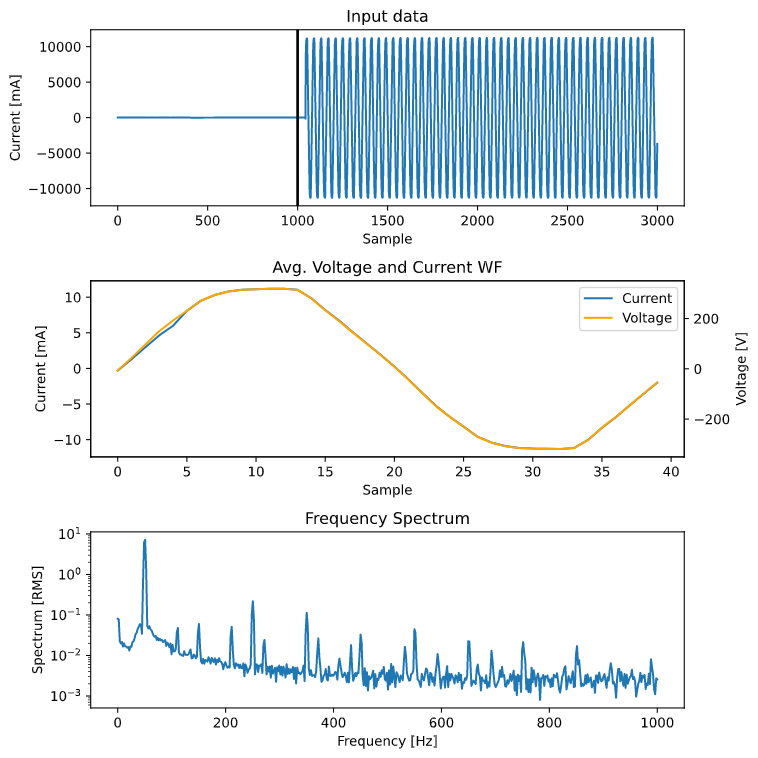
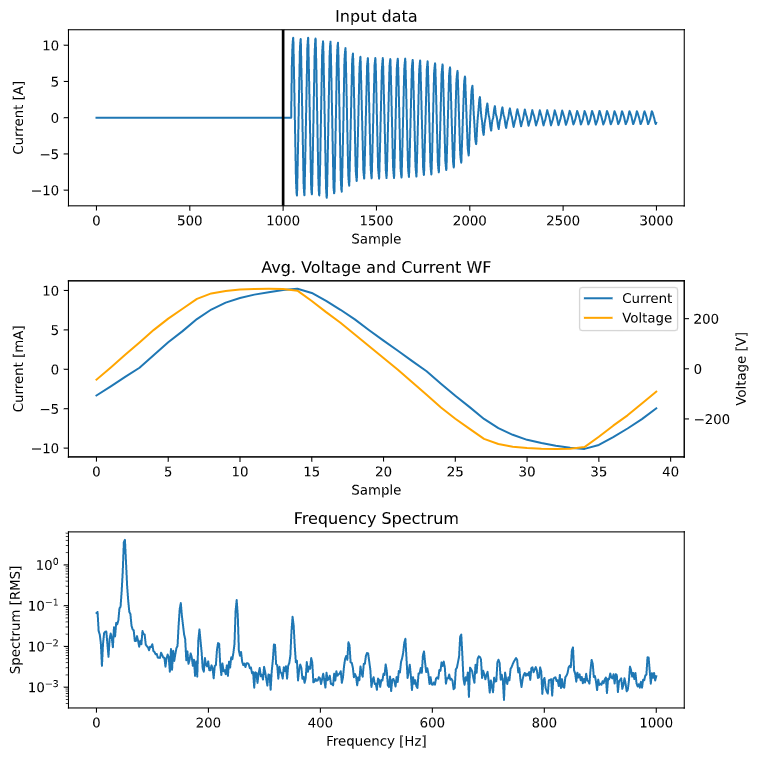
slight changes

diff --git a/examples.py b/examples.py
@@ -29,8 +29,8 @@ with open("sample.data",'rb') as f:
         fig, (ax0, ax1, ax3) = plt.subplots(3, figsize=(8,8), tight_layout=True)
         # Plot the input data
         ax0.title.set_text('Input data')
-        ax0.plot(data["i"])
-        ax0.set_ylabel("Current [mA]")
+        ax0.plot(data["i"]*0.001)
+        ax0.set_ylabel("Current [A]")
         ax0.set_xlabel("Sample")
         ax0.axvline(x=int(0.5*sr), linewidth=2, color=(0,0,0))
 

diff --git a/README.md b/README.md
@@ -65,7 +65,12 @@ for k in f:
     else:
         print(" {:>8}: [{:7.2f} ... {:7.2f}]".format(k, f[k][0], f[k][-1]))
 
-fig, (ax1, ax3) = plt.subplots(2, tight_layout=True)
+fig, (ax0, ax1, ax3) = plt.subplots(3)
+# Plot the input data
+ax0.title.set_text('Input data')
+ax0.plot(i)
+ax0.set_ylabel("Current [A]")
+ax0.set_xlabel("Sample")
 
 # Plot the avg current and voltage waveform
 lns1 = ax1.plot(f["I_WF"], label="Current")
@@ -87,3 +92,8 @@ ax3.set_xlabel("Frequency [Hz]")
 
 plt.show()
 ```
+
+Which gives you a plot like:
+
+![](./docu/plot.png =250x)
+
